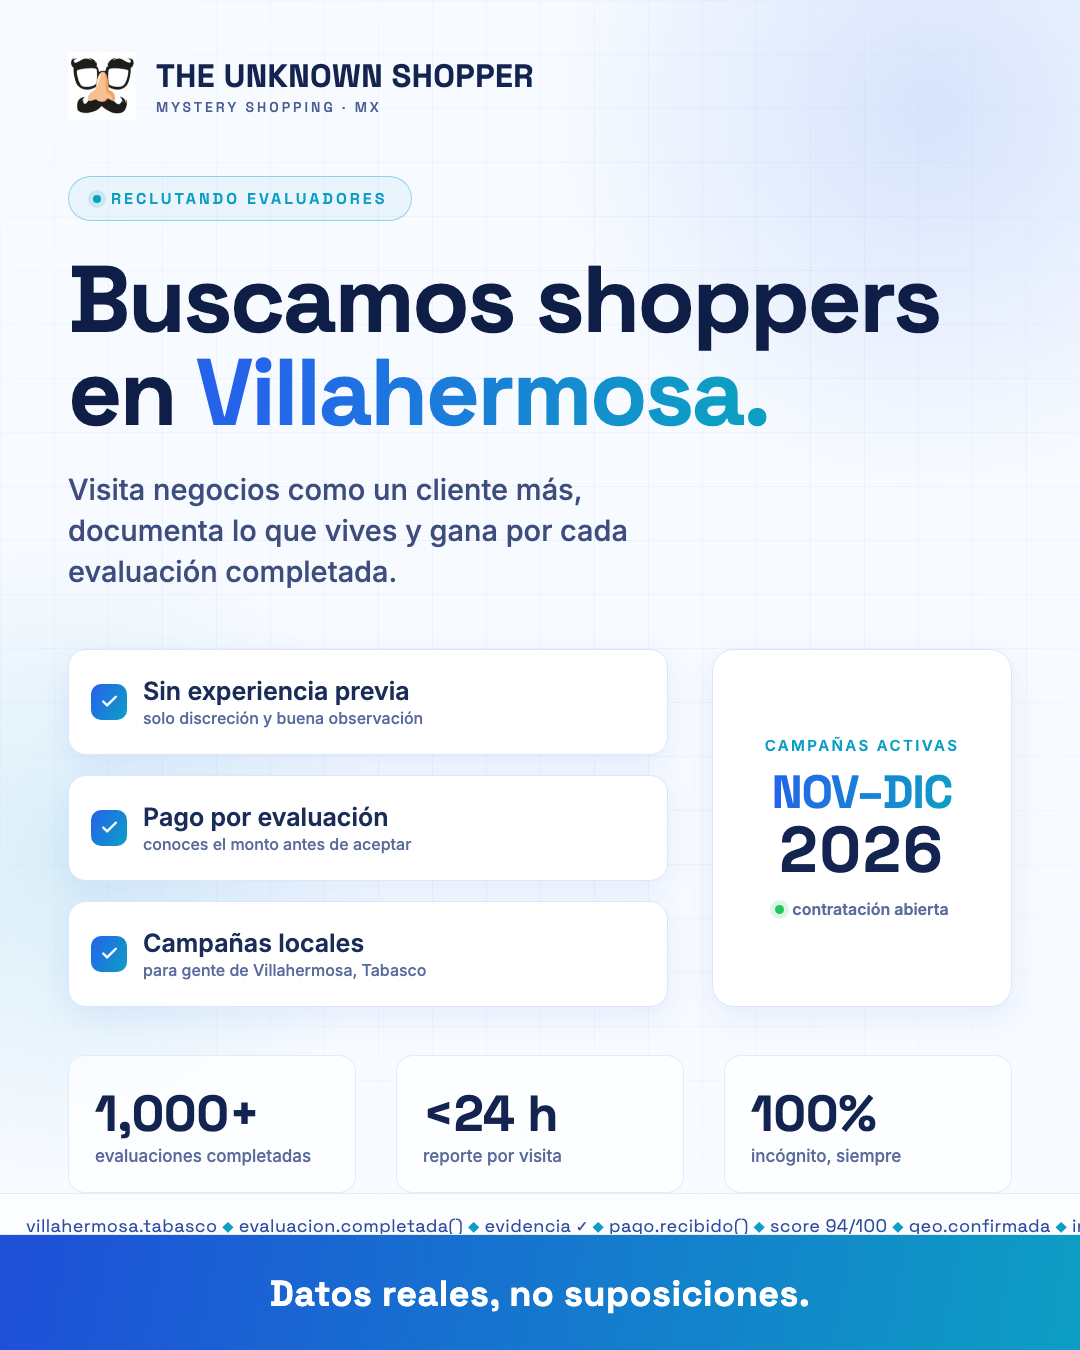
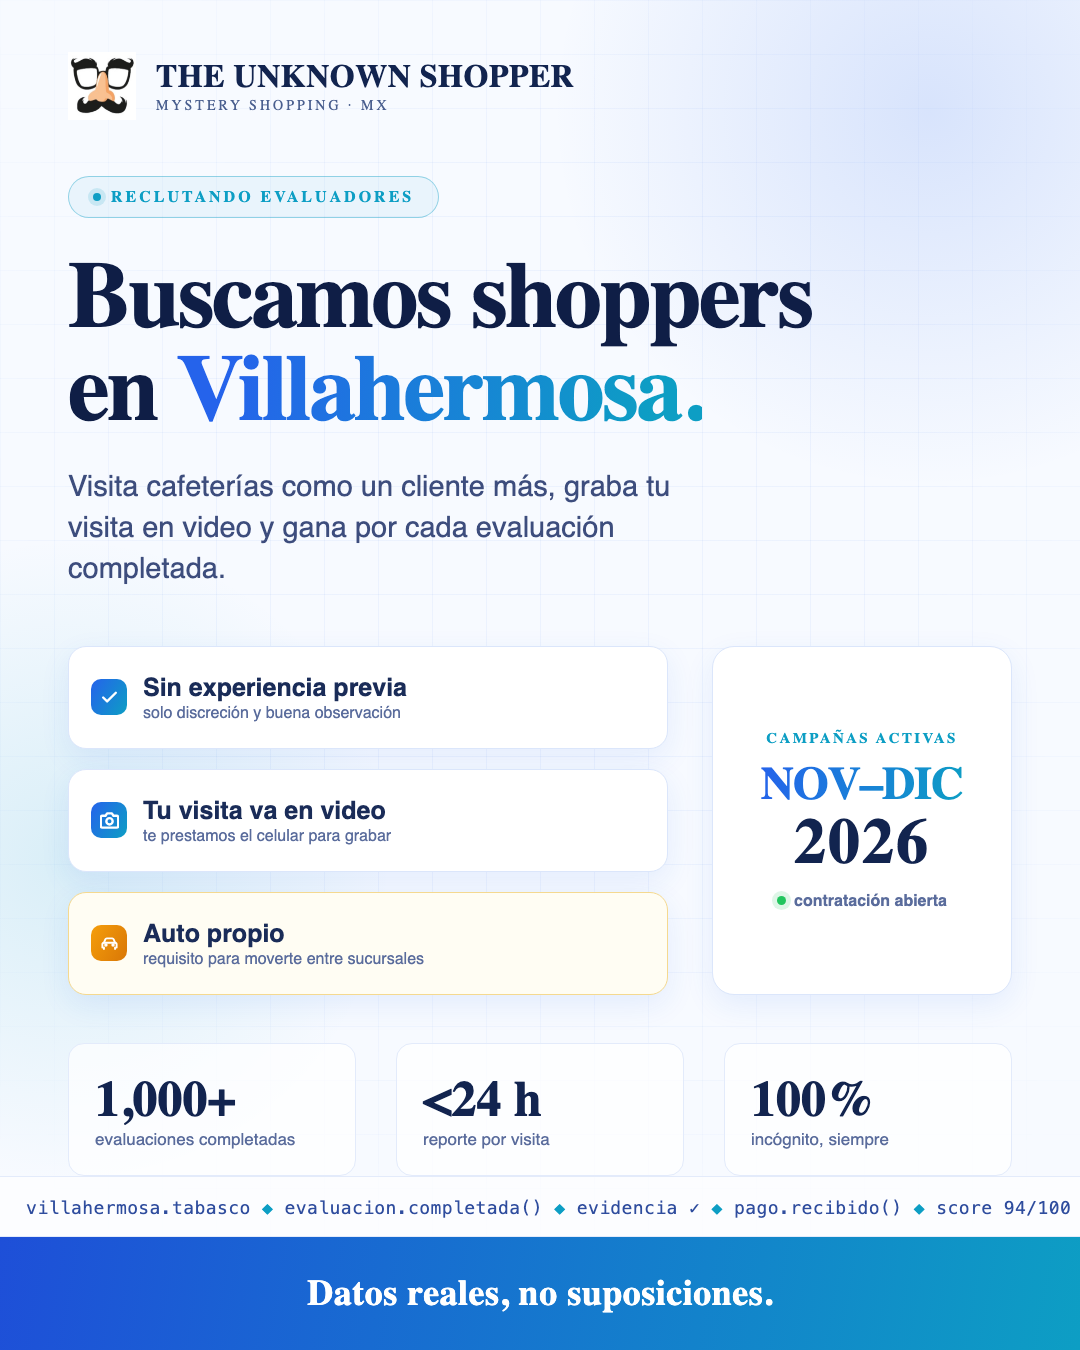
Post shopper: requisito auto propio destacado + visita en video

diff --git a/ejms/post-shopper.html b/ejms/post-shopper.html
@@ -85,6 +85,8 @@
   }
   .chip .ck svg { width:19px; height:19px; }
   .chip small { display:block; font-size:16px; font-weight:500; color:#5a6c9c; margin-top:2px; }
+  .chip.req { border-color:#f5d98f; background:#fffdf3; }
+  .chip.req .ck { background:linear-gradient(120deg,#f59e0b,#d97706); }
 
   .side {
     width:300px; flex:none; position:relative;
@@ -153,13 +155,13 @@
 
   <h1>Buscamos shoppers<br>en <span class="grad">Villahermosa.</span></h1>
 
-  <p class="lead">Visita negocios como un cliente más, documenta lo que vives y gana por cada evaluación completada.</p>
+  <p class="lead">Visita cafeterías como un cliente más, graba tu visita en video y gana por cada evaluación completada.</p>
 
   <div class="mid">
     <div class="chips">
       <div class="chip"><span class="ck"><svg viewBox="0 0 24 24" fill="none" stroke="#fff" stroke-width="3" stroke-linecap="round" stroke-linejoin="round"><path d="M20 6 9 17l-5-5"/></svg></span><span>Sin experiencia previa<small>solo discreción y buena observación</small></span></div>
-      <div class="chip"><span class="ck"><svg viewBox="0 0 24 24" fill="none" stroke="#fff" stroke-width="3" stroke-linecap="round" stroke-linejoin="round"><path d="M20 6 9 17l-5-5"/></svg></span><span>Pago por evaluación<small>conoces el monto antes de aceptar</small></span></div>
-      <div class="chip"><span class="ck"><svg viewBox="0 0 24 24" fill="none" stroke="#fff" stroke-width="3" stroke-linecap="round" stroke-linejoin="round"><path d="M20 6 9 17l-5-5"/></svg></span><span>Campañas locales<small>para gente de Villahermosa, Tabasco</small></span></div>
+      <div class="chip"><span class="ck"><svg viewBox="0 0 24 24" fill="none" stroke="#fff" stroke-width="3" stroke-linecap="round" stroke-linejoin="round"><path d="M23 19a2 2 0 0 1-2 2H3a2 2 0 0 1-2-2V8a2 2 0 0 1 2-2h4l2-3h6l2 3h4a2 2 0 0 1 2 2z"/><circle cx="12" cy="13" r="4"/></svg></span><span>Tu visita va en video<small>te prestamos el celular para grabar</small></span></div>
+      <div class="chip req"><span class="ck"><svg viewBox="0 0 24 24" fill="none" stroke="#fff" stroke-width="2.4" stroke-linecap="round" stroke-linejoin="round"><path d="M5 11l1.7-4.3A2 2 0 0 1 8.6 5.5h6.8a2 2 0 0 1 1.9 1.2L19 11"/><path d="M3 17v-4a2 2 0 0 1 2-2h14a2 2 0 0 1 2 2v4"/><path d="M5 17v2M19 17v2"/><circle cx="7.5" cy="14" r="1"/><circle cx="16.5" cy="14" r="1"/></svg></span><span>Auto propio<small>requisito para moverte entre sucursales</small></span></div>
     </div>
     <div class="side">
       <span class="cal-tag">Campañas activas</span>
